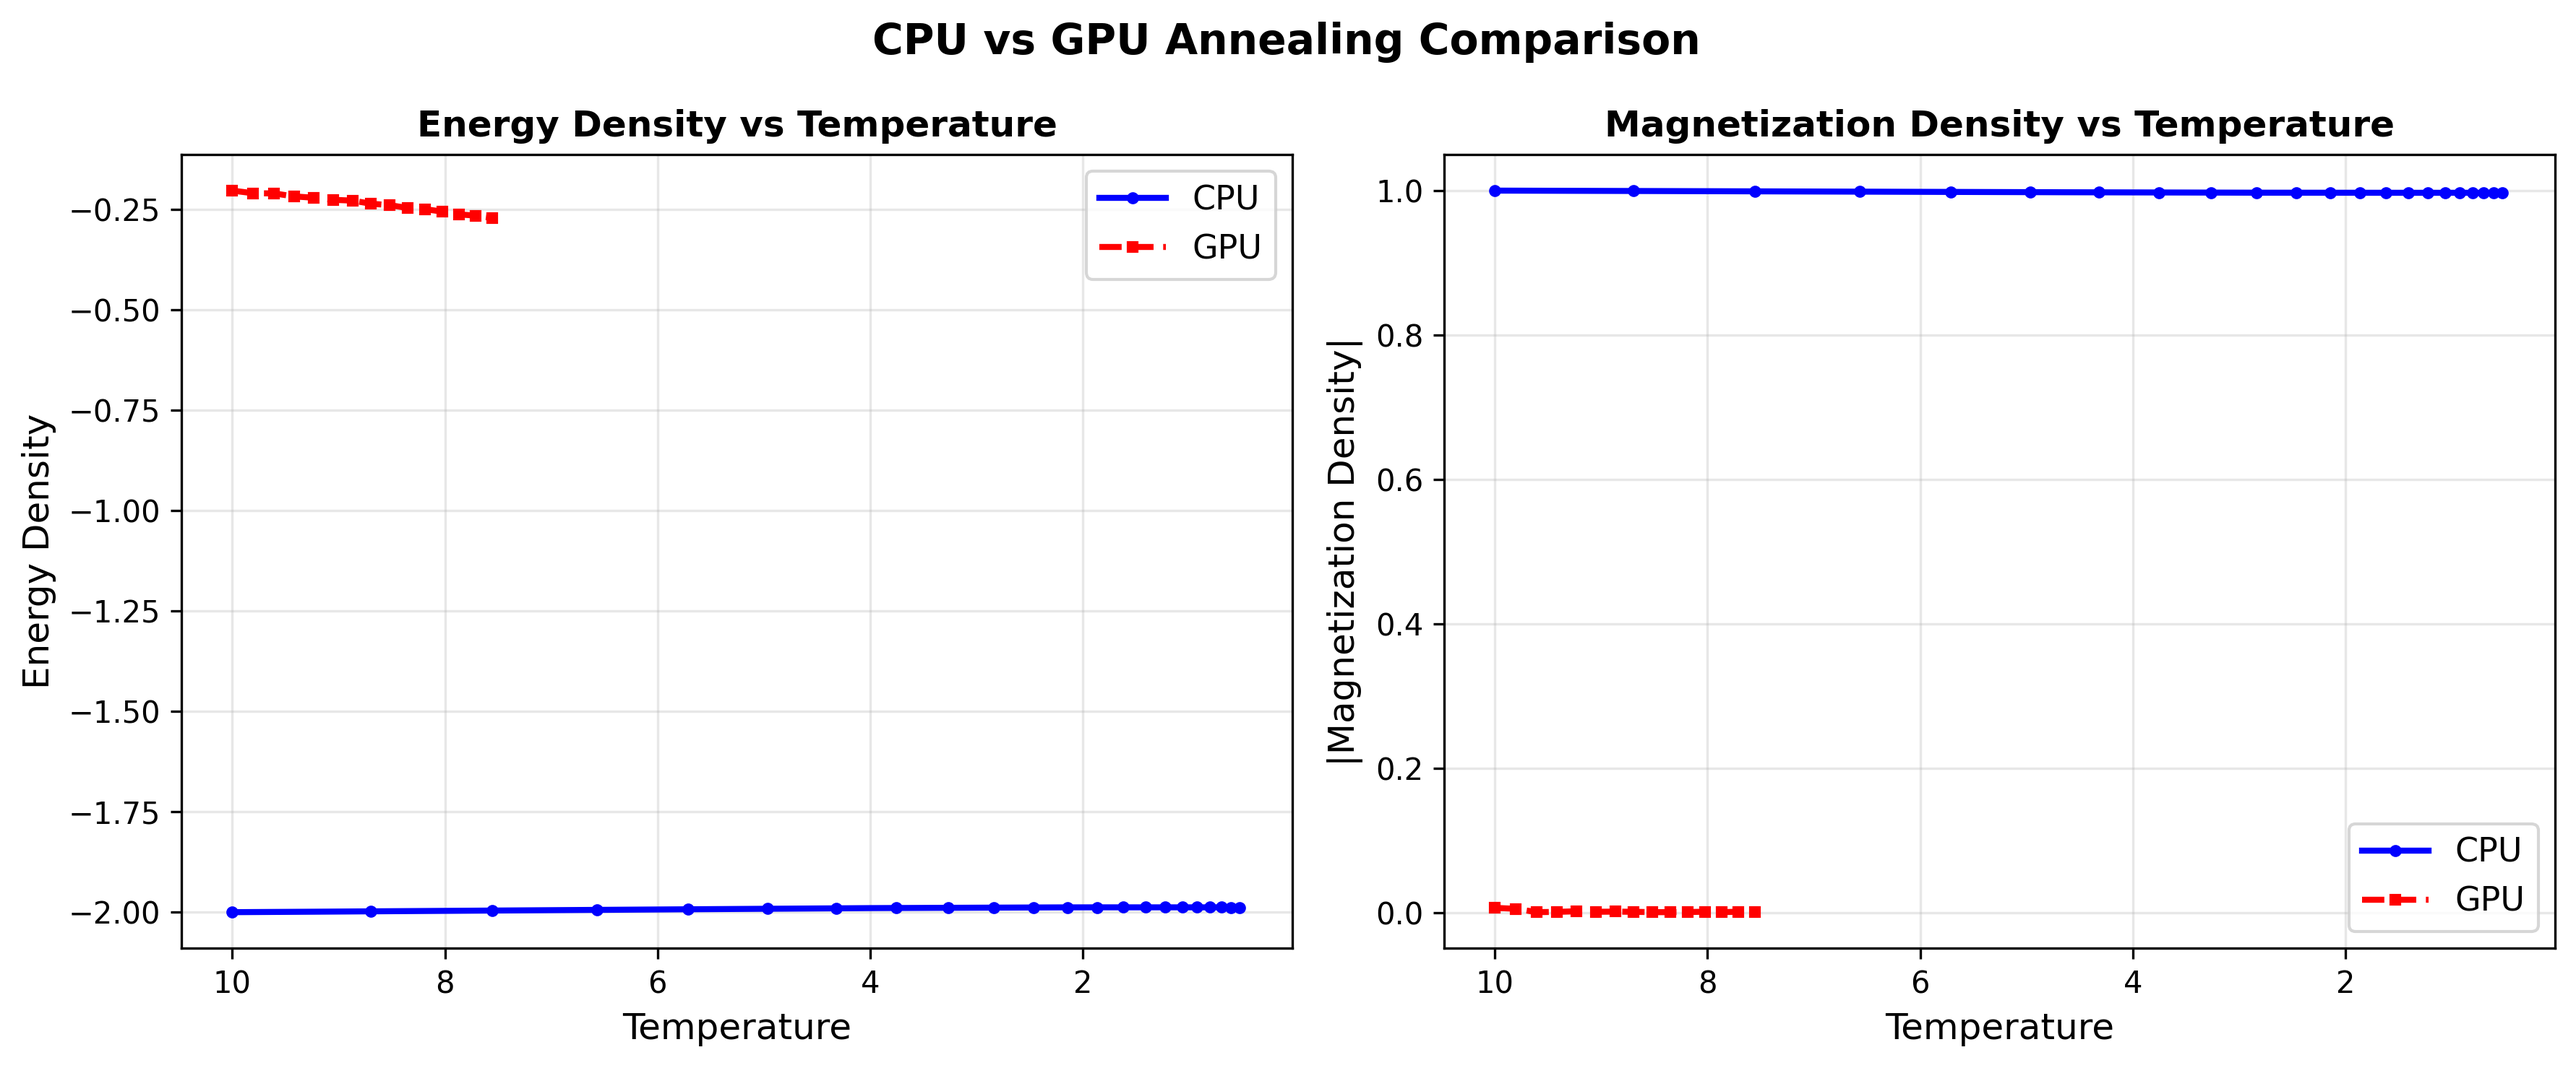
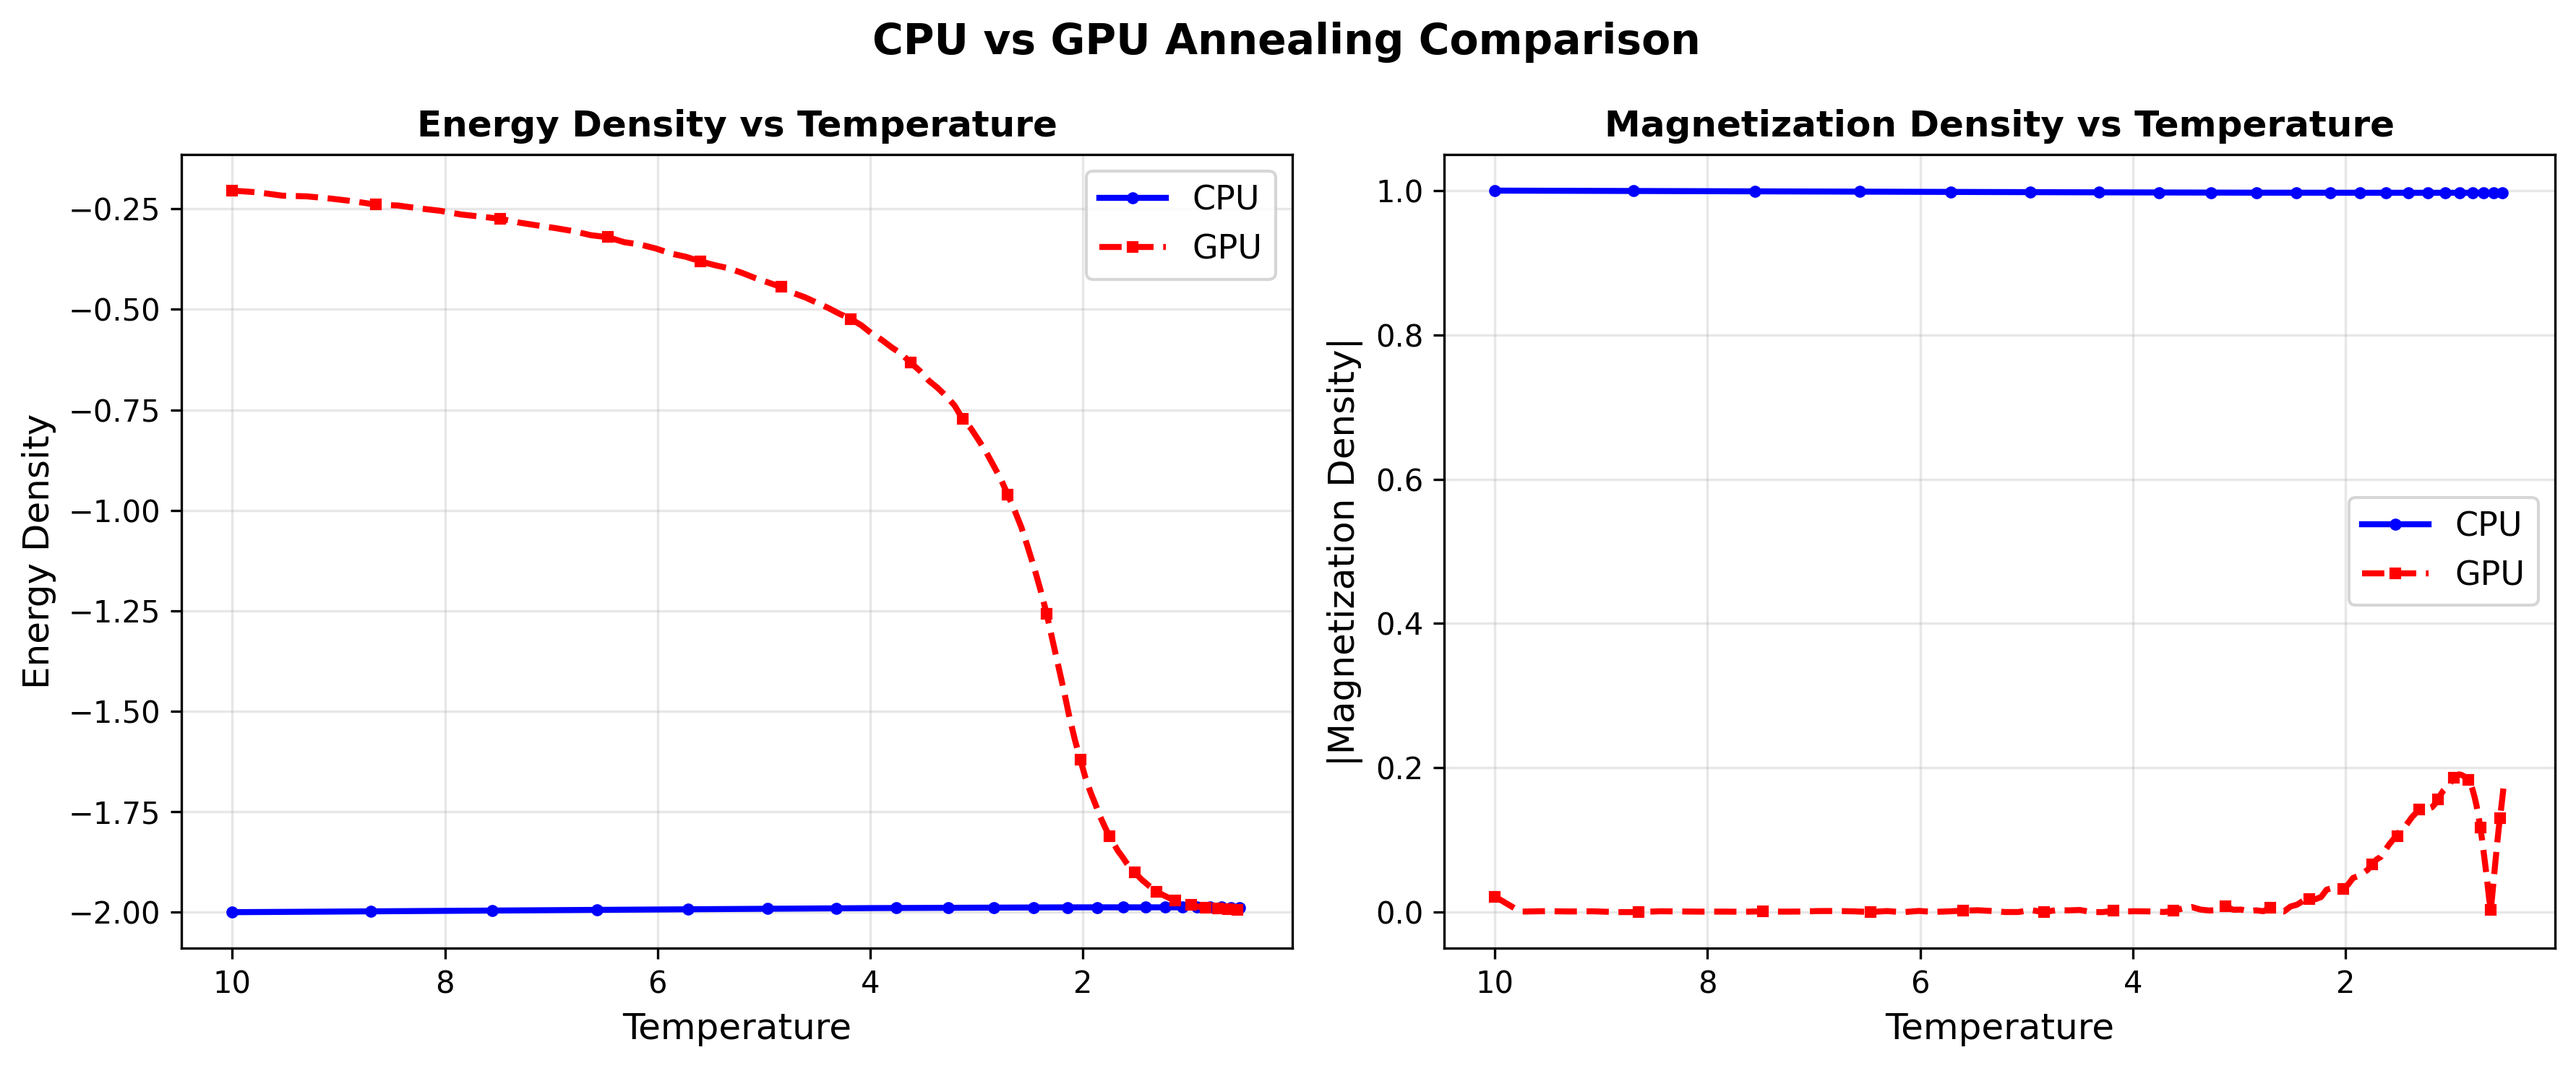
type_gpu

diff --git a/Simulated_annealing.c b/Simulated_annealing.c
@@ -21,7 +21,8 @@ int main(int argc, char *argv[])
     // Simulation parameters
     int lattice_size_x = 1000;
     int lattice_size_y = 1000;
-    int type = 2; // random initialization
+    int type = 3;
+    int type_gpu = 2; // random initialization
 
     float J = 1.0;
     float h = 0.0; // no external field for annealing
@@ -89,7 +90,7 @@ int main(int argc, char *argv[])
         clock_t gpu_start = clock();
 
         int result_gpu = annealing_gpu(
-            lattice_size_x, lattice_size_y, type,
+            lattice_size_x, lattice_size_y, type_gpu,
             J, h, kB,
             T_initial, T_final, tau,
             sweeps_per_temp_gpu, temp_update_interval_gpu,
